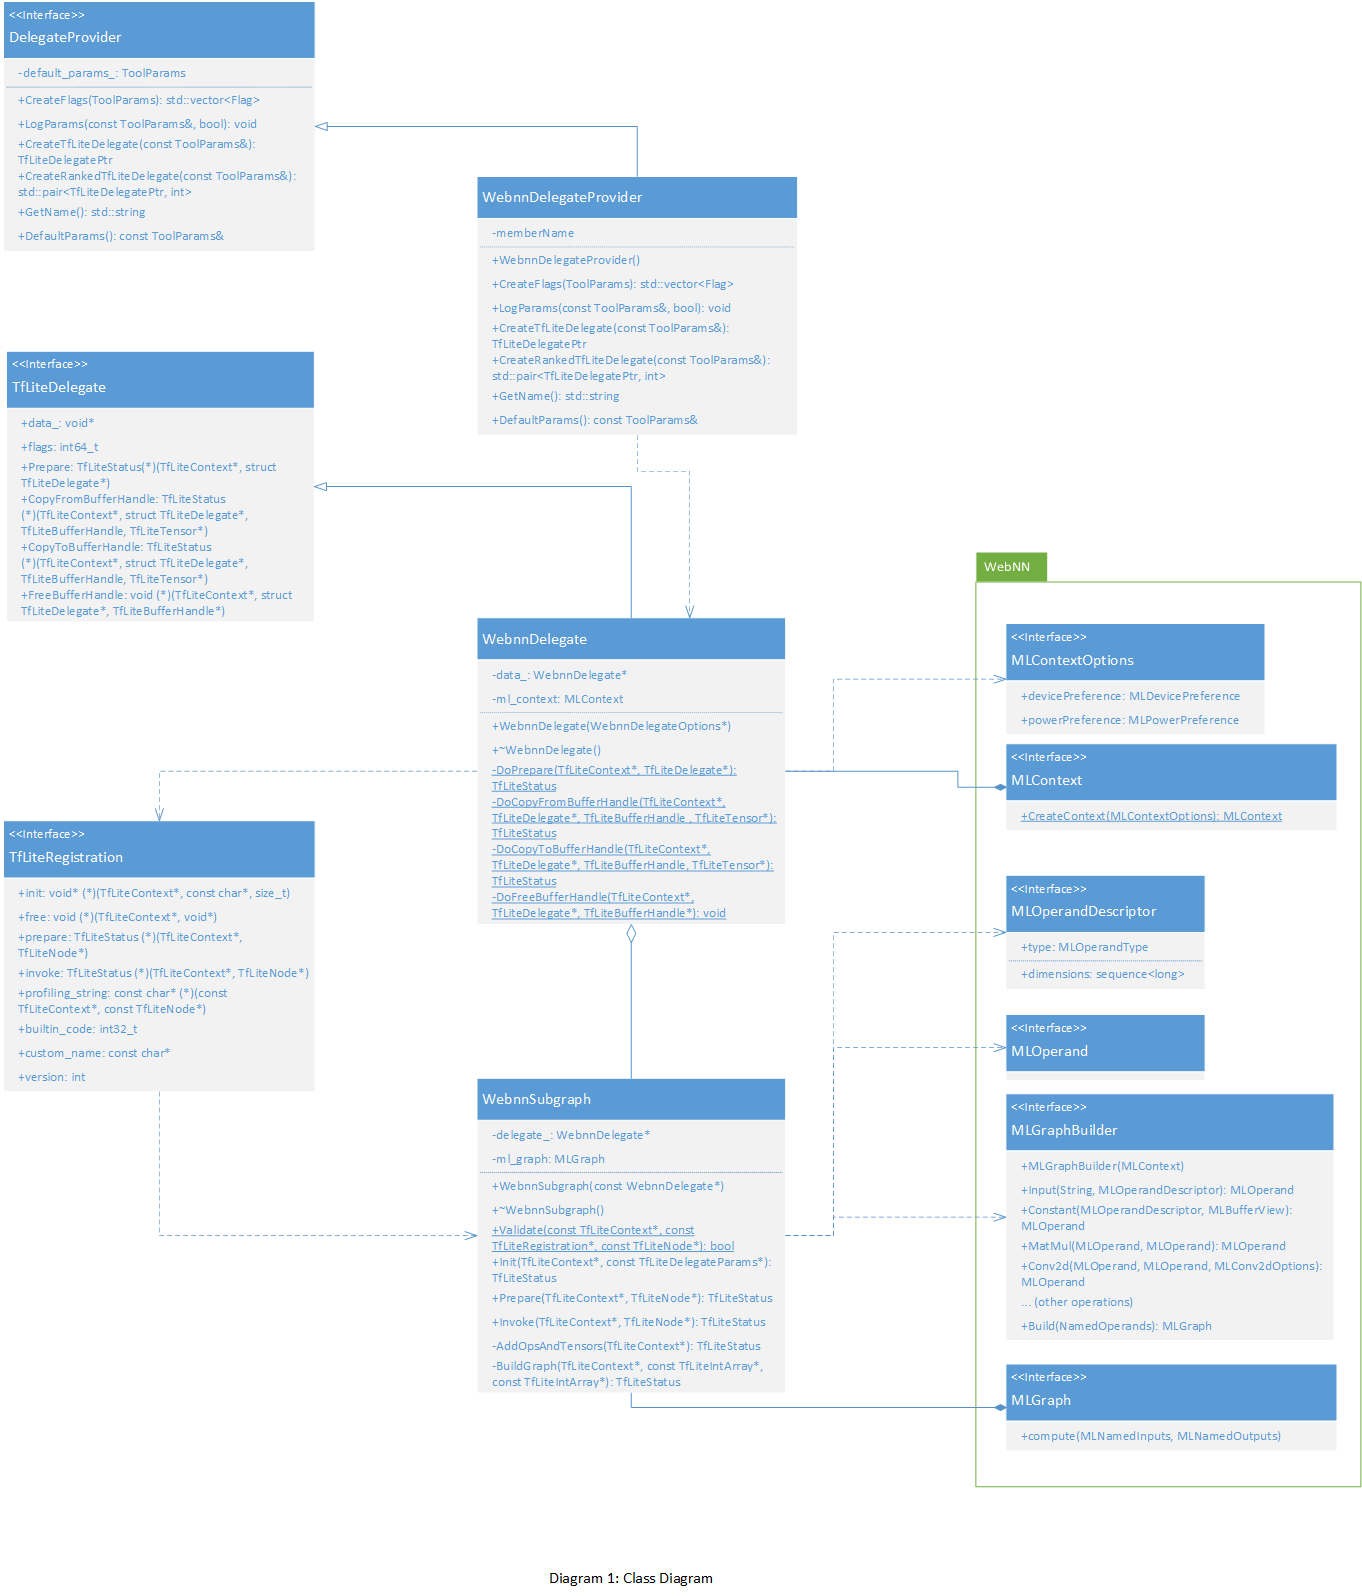
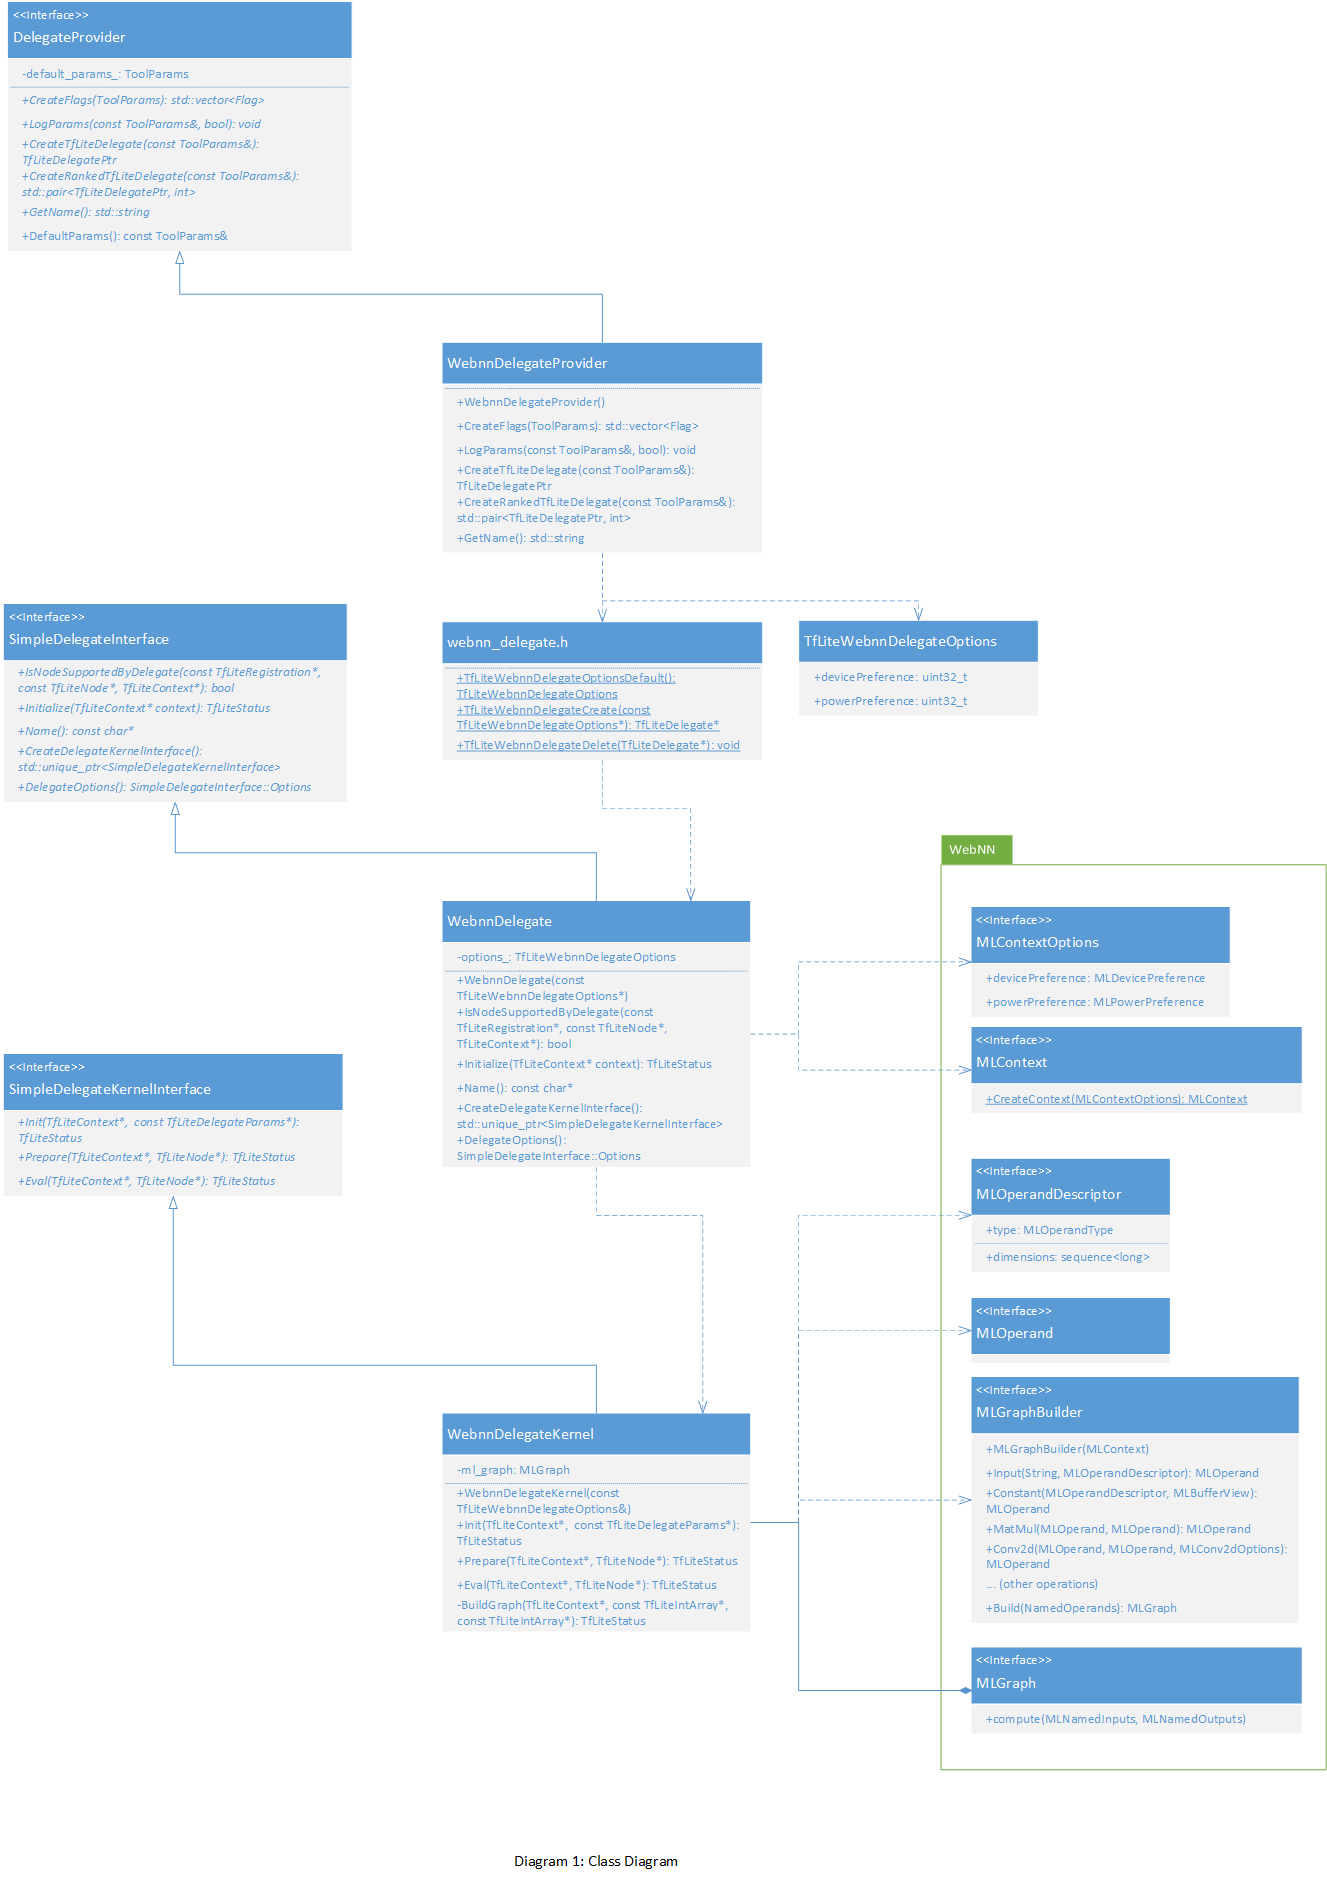
Change to use SimpleDelegateInterface

diff --git a/rfcs/20210926-webnn-delegate-for-tflite.md b/rfcs/20210926-webnn-delegate-for-tflite.md
@@ -36,67 +36,71 @@ A headline might be: "Accelerating the TensorFlow Lite WebAssembly runtime with 
 ### Overview
 
 We propose:
- 1. A `WebnnDelegate` class that inherits [`TfLiteDelegate`](https://github.com/tensorflow/tensorflow/blob/master/tensorflow/lite/c/common.h#L919). This class represents the capabilities of the WebNN delegate and maintains the WebNN context based on the options (e.g. device type). It checks which operations are supported for a subgraph to be delegated and works as a factory class for creating a kernel (represented by `WebnnSubgraph`) which encapsulates the delegated graph.
- 1. A `WebnnSubgraph` class that implements [`TfLiteRegistration`](https://github.com/tensorflow/tensorflow/blob/master/tensorflow/lite/c/common.h#L824). This class encapsulates the logic for building and invoking WebNN graph for the delegated graph.
- 1. A `WebnnDelegateProvider` class that inherits [`DelegateProvider`](https://github.com/tensorflow/tensorflow/blob/master/tensorflow/lite/tools/delegates/delegate_provider.h). This class works with TFLite delegate registrar and creates WebNN delegate based on command-line flags for TFLite tests and tooling reusing.
+ 1. A `WebnnDelegate` class that implements [`SimpleDelegateInterface`](https://github.com/tensorflow/tensorflow/blob/master/tensorflow/lite/delegates/utils/simple_delegate.h). This class represents the capabilities of the WebNN delegate and maintains the WebNN context based on the options (e.g. device preference). It checks which operations are supported for a subgraph to be delegated and works as a factory class for creating a kernel (represented by `WebnnDelegateKernel`) which encapsulates the delegated graph.
+ 1. A `WebnnDelegateKernel` class that implements [`SimpleDelegateKernelInterface`](https://github.com/tensorflow/tensorflow/blob/master/tensorflow/lite/delegates/utils/simple_delegate.h). This class encapsulates the logic for building and invoking WebNN graph for the delegated graph.
+ 1. A `WebnnDelegateProvider` class that implements [`DelegateProvider`](https://github.com/tensorflow/tensorflow/blob/master/tensorflow/lite/tools/delegates/delegate_provider.h). This class works with TFLite delegate registrar and creates WebNN delegate instance based on the command-line flags for TFLite tests and tooling reusing.
 
-The overall class diagram of this RFC is shown in Diagram 1.
+The class diagram of the design proposal is shown in Diagram 1.
 
 <div align="center">
 <img src="20210926-webnn-delegate-for-tflite/class_diagram.png">
 </div>
 
-### Interfaces
+### The extern "C" APIs for creating and deleting the WebNN delegate
 
-The `webnn_delegate.h` exposes `TfLiteWebNNDelegateOptions`, `TfLiteWebNNDelegateCreate` and `TfLiteWebNNDelegateDelete` interfaces.
+The `webnn_delegate.h` exposes `TfLiteWebnnDelegateOptions`, `TfLiteWebnnDelegateCreate` and `TfLiteWebnnDelegateDelete` extern "C" APIs for creating and deleting the WebNN delegate.
 
-`TfLiteWebNNDelegateOptions` is a structure that is used to supply options when creating a WebNN delegate. The options map to [`MLContextOptions`](https://www.w3.org/TR/webnn/#dictdef-mlcontextoptions) for device and power preferences.
+`TfLiteWebnnDelegateOptions` is a structure that is used to supply options when creating a WebNN delegate. The options map to [`MLContextOptions`](https://www.w3.org/TR/webnn/#dictdef-mlcontextoptions) for device and power preferences.
 
 It may be implemented as:
 ```c++
 typedef struct {
+  // This corresponds to the DevicePreference enum defined in the WebNN API, default 0.
   // enum class DevicePreference : uint32_t {
   //     Default = 0x00000000,
   //     Gpu = 0x00000001,
   //     Cpu = 0x00000002,
   // };
   uint32_t devicePreference;
+  // This corresponds to the PowerPreference enum defined in the WebNN API, default 0.
   // enum class PowerPreference : uint32_t {
   //     Default = 0x00000000,
   //     High_performance = 0x00000001,
   //     Low_power = 0x00000002,
   // };
   uint32_t powerPreference;
-} TfLiteWebNNDelegateOptions;
+} TfLiteWebnnDelegateOptions;
 ```
 
-`TfLiteWebNNDelegateOptionsDefault()` is used to create a structure with the default WebNN delegate options.
+`TfLiteWebnnDelegateOptionsDefault()` is used to create a structure with the default WebNN delegate options.
 ```c++
-TfLiteWebNNDelegateOptions TfLiteWebNNDelegateOptionsDefault();
+TfLiteWebnnDelegateOptions TfLiteWebnnDelegateOptionsDefault();
 ```
 
-`TfLiteWebNNDelegateCreate()` is the main entry point to create a new instance of WebNN delegate. It takes `TfLiteWebNNDelegateOptions` and returns a pointer to  `TfLiteDelegate` that is defined in [`tensorflow/lite/c/common.h`](https://github.com/tensorflow/tensorflow/blob/master/tensorflow/lite/c/common.h). `TfLiteDelegate` is a structure that is the main interface that TensorFlow Lite runtime interacts with WebNN delegate implementation. When `options` is set to `nullptr`, the above default values are used.
 ```c++
-TfLiteDelegate* TfLiteWebNNDelegateCreate(const TfLiteWebNNDelegateOptions* options);
+TfLiteDelegate* TfLiteWebnnDelegateCreate(const TfLiteWebnnDelegateOptions* options);
 ```
 
-`TfLiteWebNNDelegateDelete()` destroys a delegate created with `TfLiteWebNNDelegateCreate()` call.
+`TfLiteWebnnDelegateCreate()` is the main entry point to create a new instance of WebNN delegate. It implements the following steps:
+  1. Create a new instance of `WebnnDelegate` named _`webnn_delegate`_ with options of `TfLiteWebnnDelegateOptions`.
+  1. Call _`webnn_delegate->VerifyDelegate()`_ that checks WebNN API is available. If WebNN API is not available, return `nullptr`.
+  1. Call [`tflite::TfLiteDelegateFactory::CreateSimpleDelegate()`](https://github.com/tensorflow/tensorflow/blob/master/tensorflow/lite/delegates/utils/simple_delegate.h#L113) with _`webnn_delegate`_ and returns the pointer to  `TfLiteDelegate` that is defined in [`tensorflow/lite/c/common.h`](https://github.com/tensorflow/tensorflow/blob/master/tensorflow/lite/c/common.h).
+
+
+
+`TfLiteWebnnDelegateDelete()` destroys a WebNN delegate created with `TfLiteWebnnDelegateCreate()` call.
 ```c++
-void TfLiteWebNNDelegateDelete(TfLiteDelegate* delegate);
+void TfLiteWebnnDelegateDelete(TfLiteDelegate* delegate);
 ```
 
-### Implementation
+#### `WebnnDelegate` class
 
-`webnn_delegate.cc` implements `TfLiteDelegate` and `TfLiteRegistration` defined in [`tensorflow/lite/c/common.h`](https://github.com/tensorflow/tensorflow/blob/master/tensorflow/lite/c/common.h) with `Delegate` and `Subgraph` classes. The implementations are in namespace `delegate::webnn::`.
-
-#### `Delegate` class
-
-`Delegate` class implements the `TfLiteDelegate`. The following sample code list major methods and members that may be implemented for this class.
+`WebnnDelegate` class implements the `TfLiteDelegate`. The following sample code list major methods and members that may be implemented for this class.
 
 ```c++
 class Delegate {
  public:
-  explicit Delegate(const TfLiteWebNNDelegateOptions* options);
+  explicit Delegate(const TfLiteWebnnDelegateOptions* options);
   TfLiteIntArray* PrepareOpsToDelegate(TfLiteContext* context);
 
   // Other methods
@@ -118,7 +122,7 @@ class Delegate {
 };
 ```
 
-The constructor of `Delegate` translates the `TfLiteWebNNDelegateOptions` to `MLContextOptions`.
+The constructor of `Delegate` translates the `TfLiteWebnnDelegateOptions` to `MLContextOptions`.
 
 The `delegate_` is an instance of `TfLiteDelegate`. It bridges `TfLiteDelegate` structure to `Delegate` class.
 
@@ -154,7 +158,7 @@ Since WebNN delegate doesn't allocate its own buffers, `TfLiteDelegate::CopyFrom
 
 `TfLiteDelegate::flags` is set to `kTfLiteDelegateFlagsNone` for basic functionality. WebNN delegate may support other flags, such as for dynamic sized tensors. 
 
-#### `Subgraph` class
+### `WebnnDelegateKernel` class
 
 `kSubgraphRegistration` is an instance of `TfLiteRegistration`. It bridges `TfLiteRegistration` structure to `Subgraph` class.
 
@@ -166,7 +170,7 @@ const TfLiteRegistration kSubgraphRegistration = {
     /*.invoke=*/SubgraphInvoke,
     /*.profiling_string=*/nullptr,
     /*.builtin_code=*/0,
-    /*.custom_name=*/"TfLiteWebNNDelegate",
+    /*.custom_name=*/"TfLiteWebnnDelegate",
     /*.version=*/2,
 };
 ```
@@ -268,6 +272,9 @@ static TfLiteStatus VisitAddNode(
 
 `VisitNode` is called by both `Delegate::PrepareOpsToDelegate` and `Subgraph::Create` for two different usages. When called by `Delegate::PrepareOpsToDelegate`, the `builder` will be an invalid `ml::GraphBuilder`. It leads `if (builder)` to be false. At that stage, it only checks whether this TFLite node is supported by WebNN or not. When called by `Subgraph::Create`, the `builder` will be a valid `ml::GraphBuilder`. It makes `if (builder)` to be true. At this stage, it builds the actual WebNN operation based on the TFLite node.
 
+### `WebnnDelegateProvider` class
+
+
 ### Alternatives Considered
 
 To access GPU, one alternative solution would be implementing a WebGL/WebGPU delegate. TensorFlow.js already uses WebGL and are working on a WebGPU backend. We believe this alternative is insufficient for two reasons. First, although graphics abstraction layers provide the flexibility of general programmability of the GPU graphics pipelines, they are unable to tap into hardware-specific optimizations and special instructions that are available to the operating system internals. The hardware ecosystem has been investing significantly in innovating in the ML space, and much of that is about improving the performance of intensive compute workloads in machine learning scenarios. Some key technologies that are important to model performance may not be uniformly accessible to applications through generic graphics pipeline states. Secondly, there are other accelerators, such as DPS and Edge TPU, that are not exposed through WebGL and WebGPU API. A WebGL/WebGPU delegate would not be able to enable the hardware accelerations on those accelerators.
@@ -321,6 +328,9 @@ struct TFLiteWebModelRunnerOptions {
 
   // Device preference of WebNN delegate: 0 - default, 1 - gpu, 2 - cpu.
   int webnn_device_preference = 0;
+
+  // Power preference of WebNN delegate: 0 - default, 1 - high-performance, 2 - low-power
+  int webnn_power_preference = 0;
 };
 
 TfLiteStatus TFLiteWebModelRunner::InitFromBuffer(
@@ -349,12 +359,13 @@ TfLiteStatus TFLiteWebModelRunner::InitFromBuffer(
 
   // Enable WebNN delegate if requested.
   if (options_.enable_webnn_delegate) {
-    TfLiteWebNNDelegateOptions options =
-        TfLiteWebNNDelegateOptionsDefault();
+    TfLiteWebnnDelegateOptions options =
+        TfLiteWebnnDelegateOptionsDefault();
     options.devicePreference = options_.webnn_device_preference;
-    auto webnn_delegate = TfLiteWebNNDelegateCreate(&options);
+    options.powerPreference = options_.webnn_power_preference;
+    auto webnn_delegate = TfLiteWebnnDelegateCreate(&options);
     auto delegate_ptr = tflite::Interpreter::TfLiteDelegatePtr(webnn_delegate, [](TfLiteDelegate* delegate) {
-      TfLiteWebNNDelegateDelete(delegate);
+      TfLiteWebnnDelegateDelete(delegate);
     });
     if (interpreter_->ModifyGraphWithDelegate(std::move(delegate_ptr)) != kTfLiteOk) {
         printf("Failed to apply webnn delegate.\n");
@@ -385,8 +396,9 @@ const modelRunnerResult =
         offset, modelBytes.length, {
         numThreads: Math.min(
             4, Math.max(1, (navigator.hardwareConcurrency || 1) / 2)),
-        enableWebNNDelegate: true,
-        webNNDevicePreference: 0)
+        enableWebnnDelegate: true,
+        webnnDevicePreference: 0,
+        webnnPowerPreference: 0)
     });
 if (!modelRunnerResult.ok()) {
     throw new Error(
